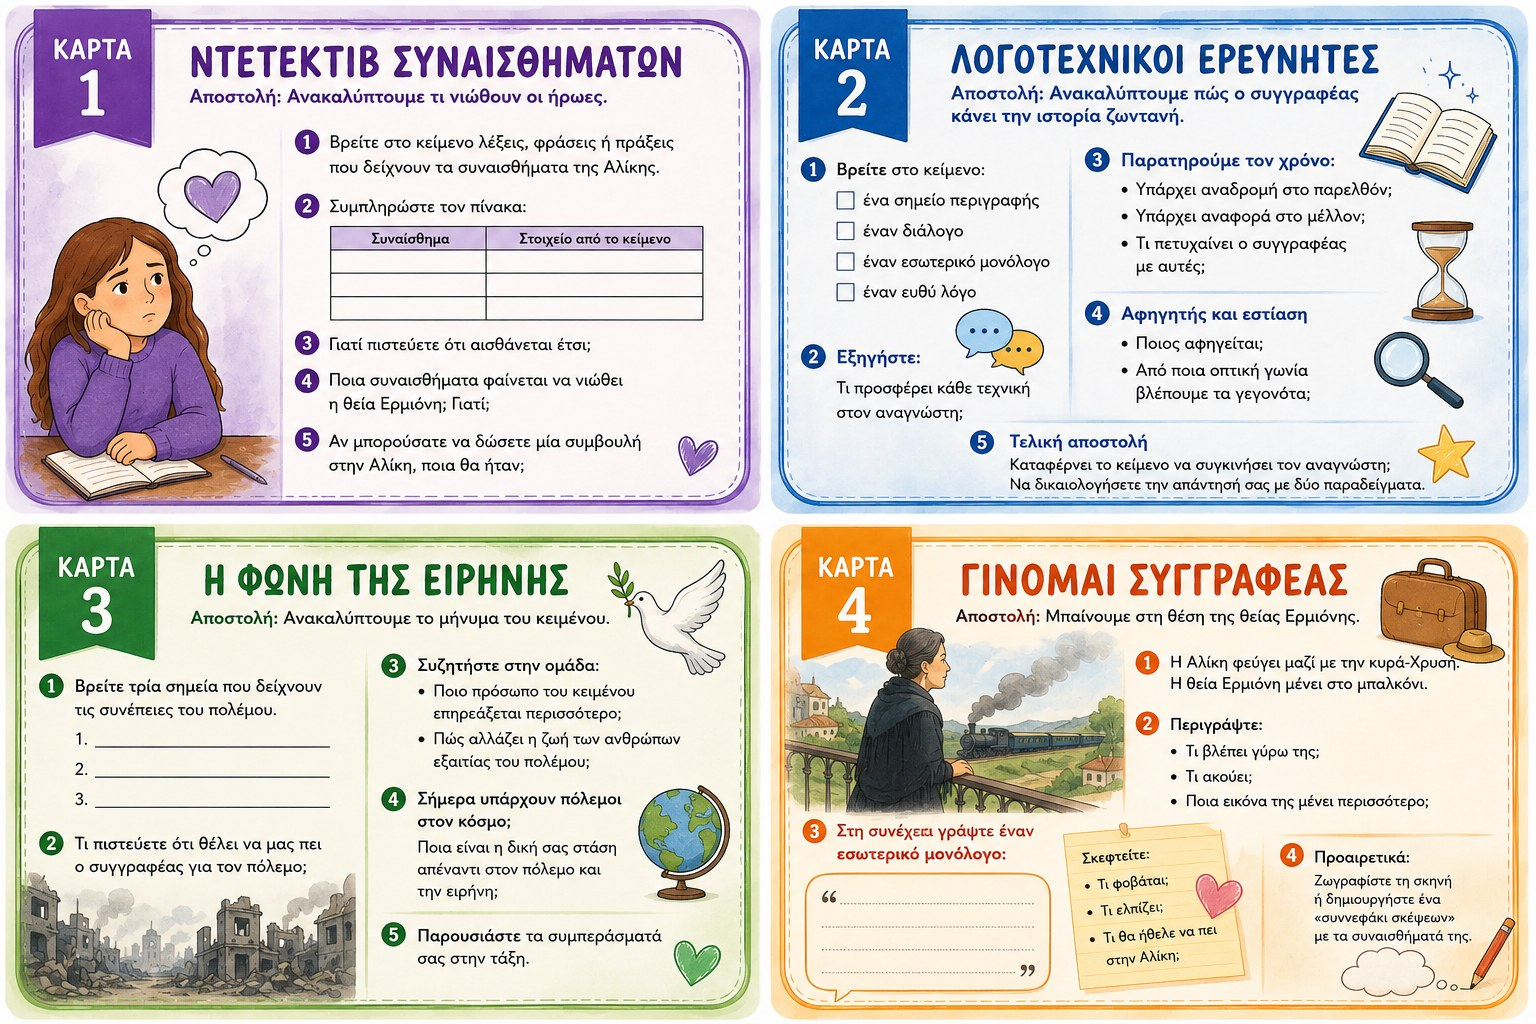
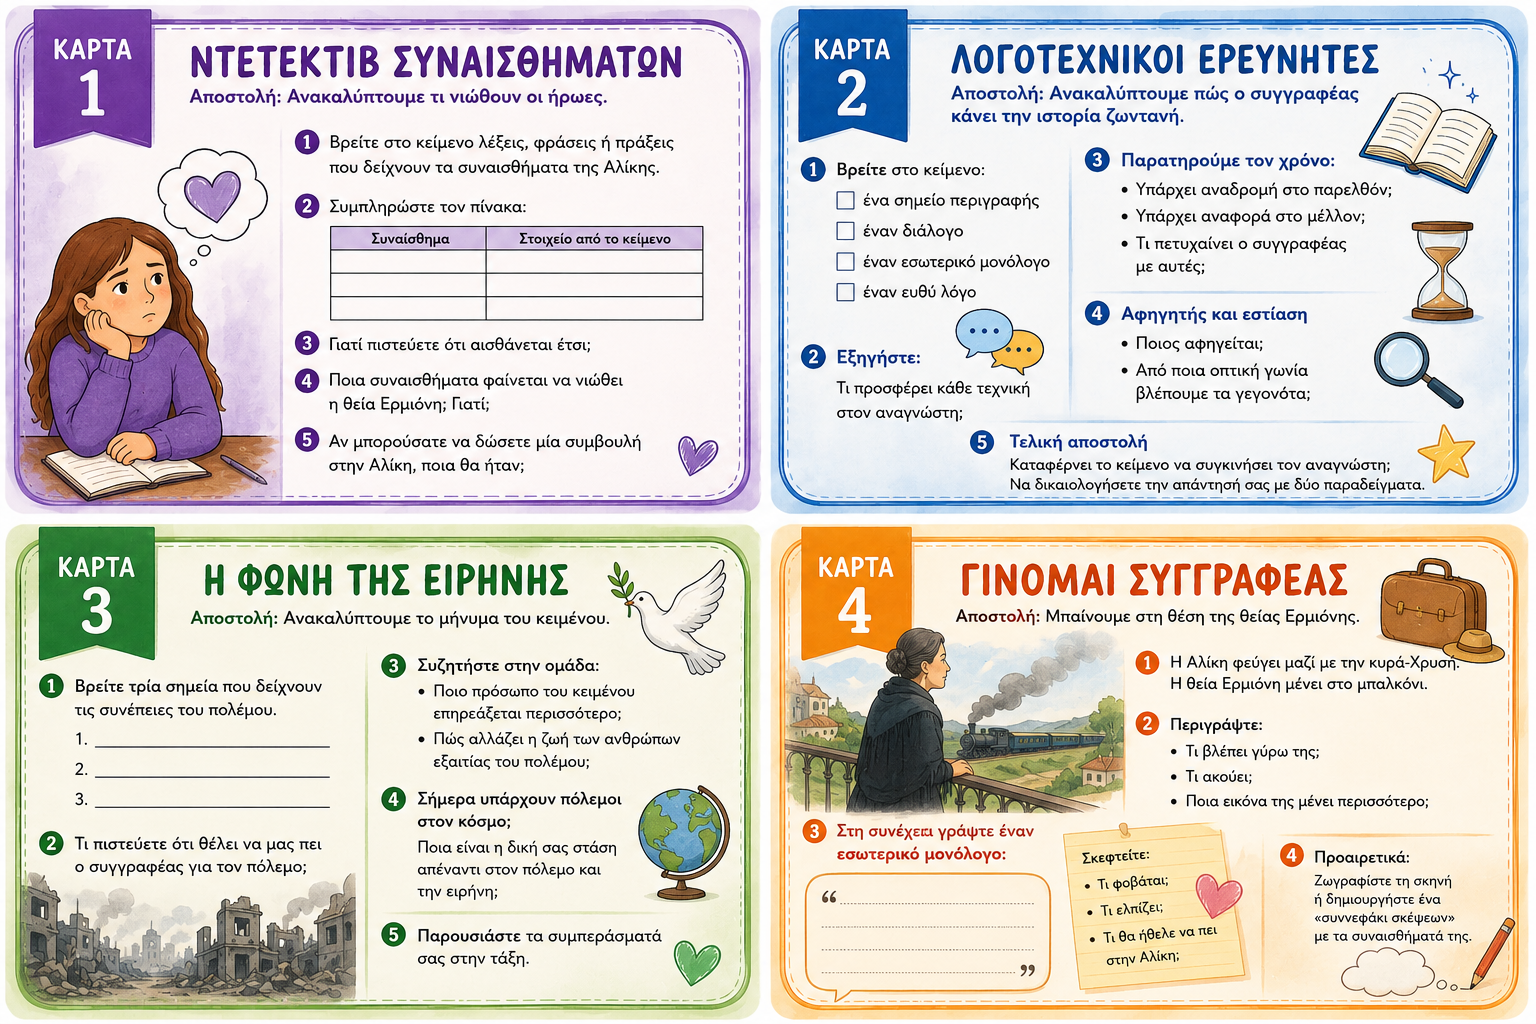
Add files via upload

diff --git a/README.md b/README.md
@@ -1,7 +1,3 @@
 # Ταξίδι χωρίς επιστροφή
 
-Ψηφιακή παρουσίαση διδακτικής εφαρμογής για GitHub Pages.
-
-Ανέβασε στο GitHub τα αρχεία αποσυμπιεσμένα:
-- index.html
-- φάκελος assets
+Διορθωμένη έκδοση: αλλαγή μόνο στην 3η διδακτική ώρα.